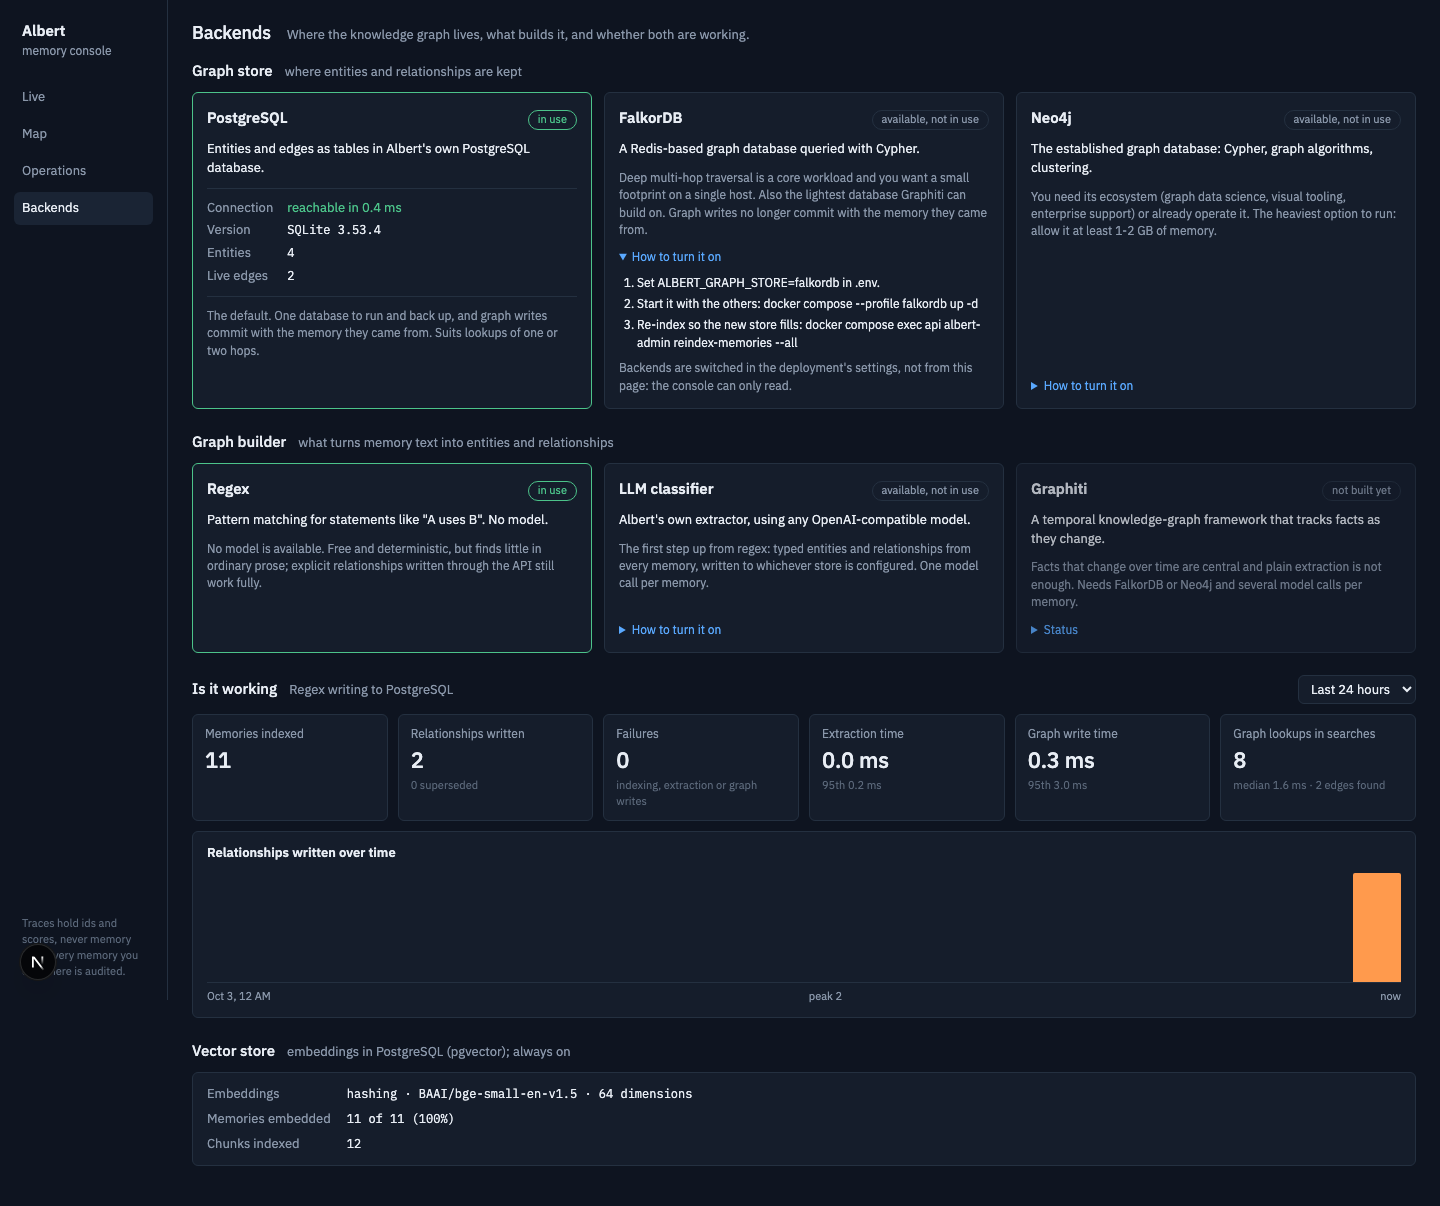
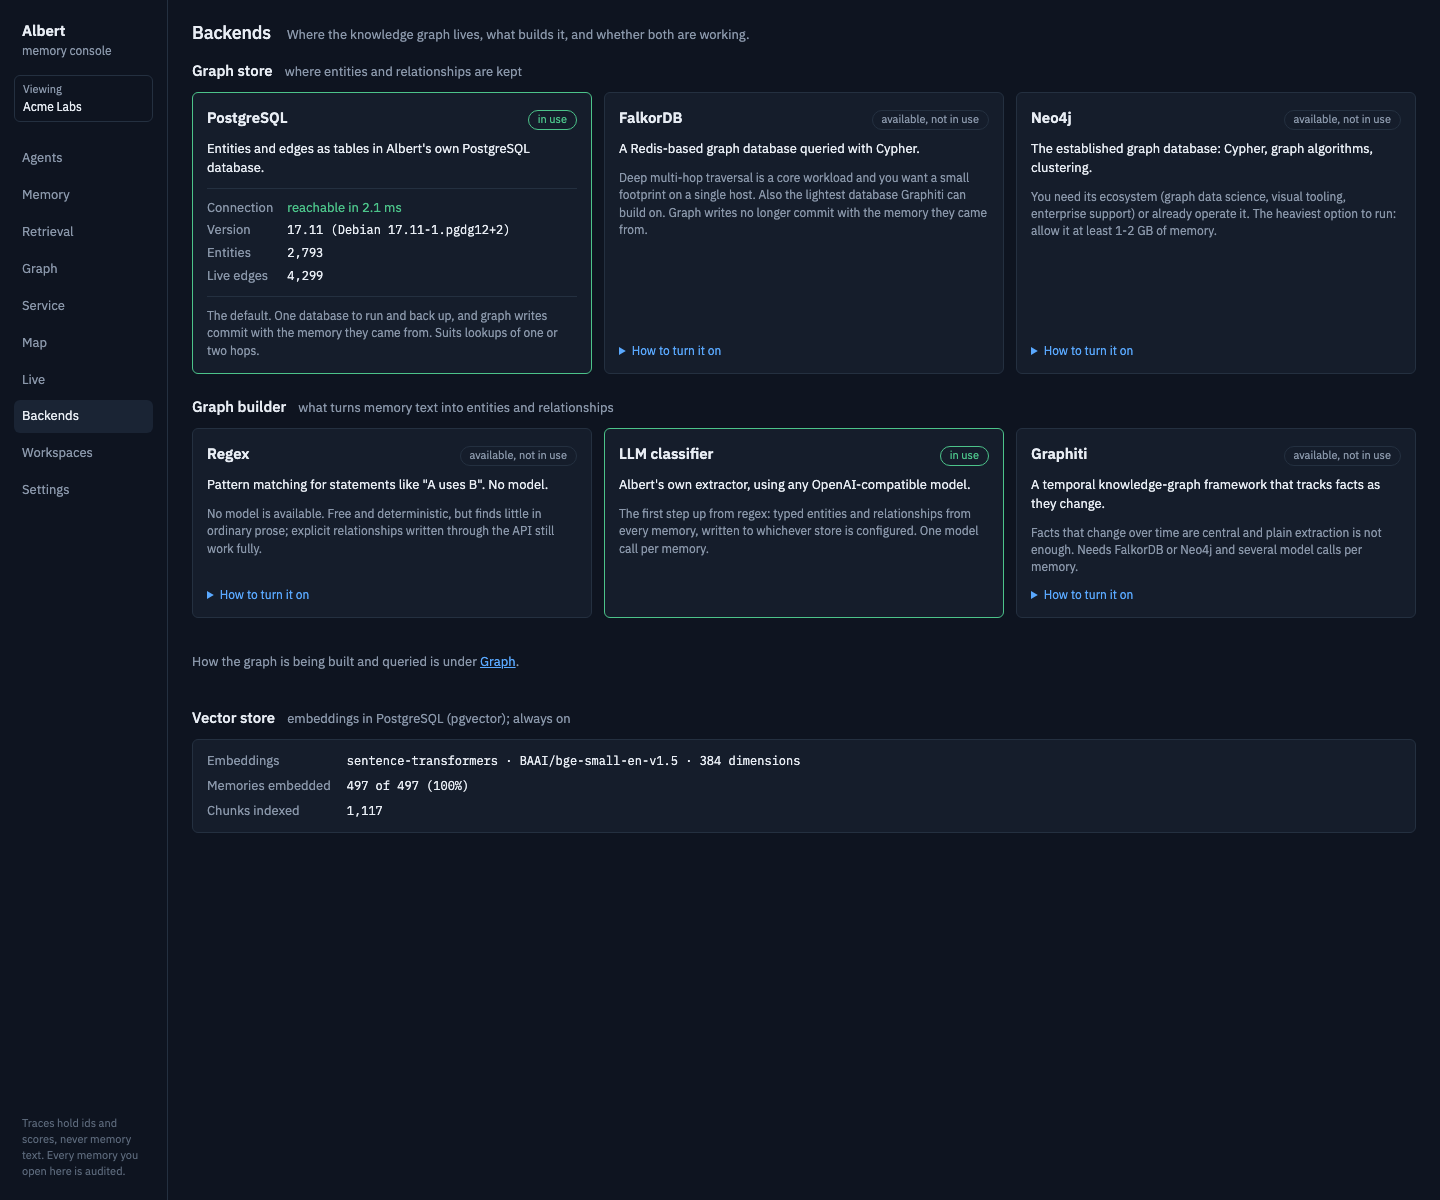
docs: refresh console README and screenshots

diff --git a/README.md b/README.md
@@ -15,7 +15,7 @@ again by meaning, by keyword and by relationship, and you get a live console
 that shows every memory, how it connects to the others, and exactly why a
 search returned what it did.
 
-![The memory map: clusters of related memories with one open in the reading pane](docs/images/console-map.png)
+![The memory map: scoped filters, named clusters and links between related memories](docs/images/console-map.png)
 
 ## Highlights
 
@@ -336,10 +336,11 @@ docs/                 guides (see below)
 
 ## The console
 
-Six screens. Five are read-only views fed by the flight recorder; Settings
-issues credentials and manages workspaces. The side menu shows what the
-console's key can see, and every view can be narrowed to one workspace (plus
-the organization-wide memories it shares) or to the shared memories alone.
+Ten top-level pages. Eight are observational views; **Workspaces** and
+**Settings** are the administrative pages. The side menu shows the organization
+or workspace scope the console's key can see. Data views can be narrowed to one
+workspace (plus the organization-wide memories it shares), all visible
+workspaces, or the shared memories alone.
 
 **Live** streams every request and job as it happens. **Replay** opens any one
 of them as a waterfall of its steps, with the candidates each backend returned
@@ -354,7 +355,7 @@ question: who is using memory, what does it hold, are searches finding things,
 is the knowledge graph being built, and is the service healthy. Each is its own
 page in the side menu; the console opens on Agents.
 
-![Retrieval quality: which backend earns the hits, which searches found nothing](docs/images/console-operations.png)
+![Retrieval quality: run an operator search, compare backend contribution and inspect misses and latency](docs/images/console-retrieval.png)
 
 **Backends** shows which graph store and graph builder are in use, proves the
 store is reachable, and gives the exact steps to switch.
@@ -363,8 +364,9 @@ store is reachable, and gives the exact steps to switch.
 its memories become organization-wide, move to another workspace, or are
 forgotten.
 
-**Settings** issues least-privilege API keys and one-time connection links, each held to a workspace or the whole
-organization and never wider than the console's own key.
+**Settings** issues least-privilege API keys and one-time connection links. Each
+credential is held to one workspace or the whole organization and can never be
+wider than the console's own key.
 
 ![Backends: stores and builders with live status and how to turn each on](docs/images/console-backends.png)
 
